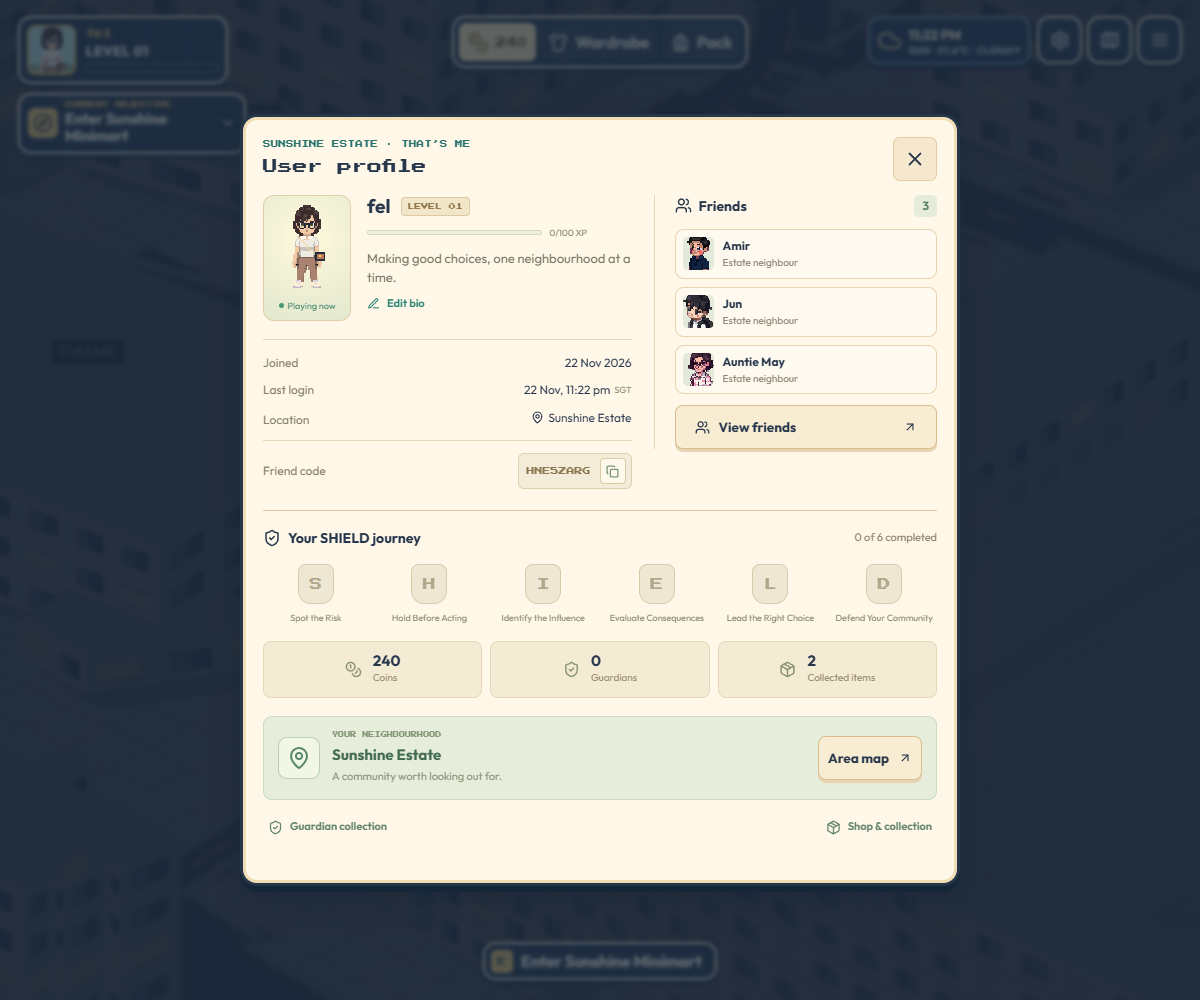
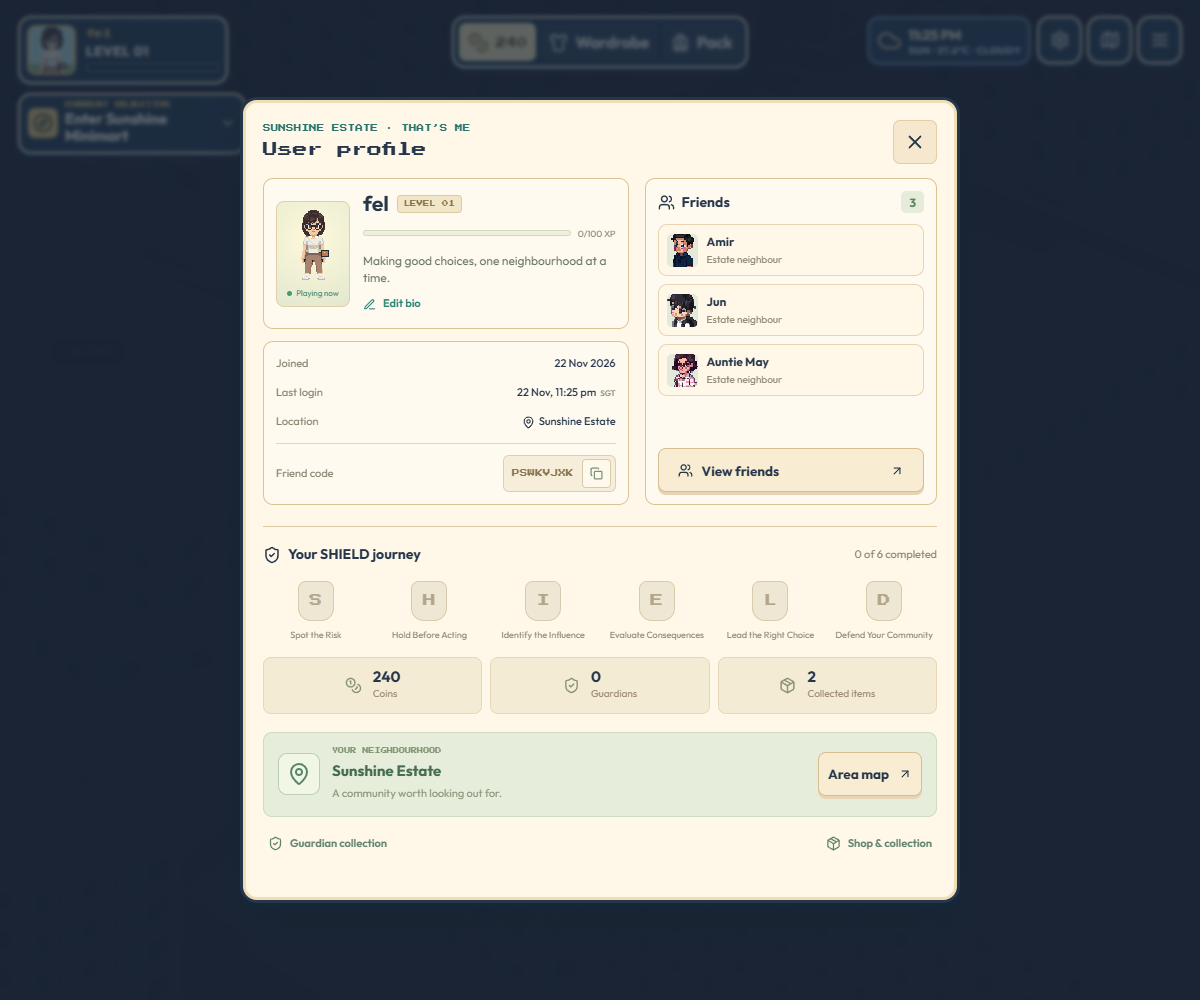
Refine profile identity layout and account detail alignment

diff --git a/src/styles/modals.css b/src/styles/modals.css
@@ -118,3 +118,49 @@
   .modal.standard-modal.panel-map .map-legend { font-size: .7rem; }
   .modal.standard-modal.shop-modal .shop-tabs button { font-size: 11px; }
 }
+/* Profile identity: two balanced columns, with account facts grouped beneath the avatar. */
+.modal.standard-modal.profile-modal .profile-top { grid-template-columns: minmax(0,1.25fr) minmax(0,1fr); align-items: stretch; gap: 16px; }
+.modal.standard-modal.profile-modal .profile-identity { display: flex; flex-direction: column; gap: 12px; }
+.modal.standard-modal.profile-modal .profile-person { align-items: center; gap: 13px; min-height: 145px; padding: 12px; border: 1px solid var(--modal-card-line); border-radius: 10px; background: var(--modal-card); }
+.modal.standard-modal.profile-modal .profile-avatar { flex: 0 0 74px; padding: 7px 3px; border-radius: 8px; }
+.modal.standard-modal.profile-modal .profile-avatar .avatar-sprite { width: 61px; height: 76px; }
+.modal.standard-modal.profile-modal .profile-avatar > span { margin-top: 3px; font-size: 8px; }
+.modal.standard-modal.profile-modal .profile-person-copy { min-width: 0; flex: 1; }
+.modal.standard-modal.profile-modal .profile-name-row { align-items: center; gap: 6px 8px; margin-bottom: 10px; }
+.modal.standard-modal.profile-modal .profile-name-row h3 { font-size: 21px; line-height: 1.2; }
+.modal.standard-modal.profile-modal .profile-level { padding: 5px 6px; font-size: .4rem; }
+.modal.standard-modal.profile-modal .profile-name-xp { max-width: none; gap: 7px; }
+.modal.standard-modal.profile-modal .profile-name-xp .profile-xp-track { height: 6px; min-width: 38px; }
+.modal.standard-modal.profile-modal .profile-name-xp > span { font-size: 9px; }
+.modal.standard-modal.profile-modal .profile-bio { margin: 12px 0 6px; color: #677568; font-size: 12px; line-height: 1.45; }
+.modal.standard-modal.profile-modal .profile-edit.text-button { min-height: 24px; padding: 2px 0; font-size: 11px; }
+.modal.standard-modal.profile-modal .profile-details-card { padding: 12px; border: 1px solid var(--modal-card-line); border-radius: 10px; background: var(--modal-card); }
+.modal.standard-modal.profile-modal .profile-facts { gap: 9px; margin: 0; padding: 0; border: 0; }
+.modal.standard-modal.profile-modal .profile-facts > div { min-height: 20px; align-items: center; gap: 10px; }
+.modal.standard-modal.profile-modal .profile-facts dt { font-size: 11px; }
+.modal.standard-modal.profile-modal .profile-facts dd { flex-wrap: wrap; justify-content: flex-end; font-size: 11px; font-weight: 500; }
+.modal.standard-modal.profile-modal .profile-facts dd small { font-size: 8px; }
+.modal.standard-modal.profile-modal .profile-location-code { gap: 10px; margin-top: 11px; padding-top: 11px; }
+.modal.standard-modal.profile-modal .profile-location-code > span { flex-shrink: 0; font-size: 11px; }
+.modal.standard-modal.profile-modal .profile-location-code > div { gap: 8px; padding: 3px 4px 3px 8px; background: #f6eedb; }
+.modal.standard-modal.profile-modal .profile-location-code code { font-size: .48rem; }
+.modal.standard-modal.profile-modal .profile-location-code button { width: 29px; height: 29px; }
+.modal.standard-modal.profile-modal .profile-social { display: flex; flex-direction: column; padding: 12px; border: 1px solid var(--modal-card-line); border-radius: 10px; background: var(--modal-card); }
+.modal.standard-modal.profile-modal .profile-social h3 { margin: 0 0 11px; min-height: 22px; }
+.modal.standard-modal.profile-modal .profile-friend-preview { gap: 8px; }
+.modal.standard-modal.profile-modal .profile-friend-preview > div { min-height: 51px; padding: 8px; background: var(--cream); }
+.modal.standard-modal.profile-modal .profile-friend-preview strong { font-size: 12px; }
+.modal.standard-modal.profile-modal .profile-friend-preview small { font-size: 10px; }
+.modal.standard-modal.profile-modal .profile-social > .button { margin: auto 0 0; padding-top: 10px; transform: none; }
+.modal.standard-modal.profile-modal .profile-friend-preview { margin-bottom: 12px; }
+.modal.standard-modal.profile-modal .profile-bio-editor { margin-top: 0; }
+@media(max-width:560px) {
+  .modal.standard-modal.profile-modal .profile-top { grid-template-columns: 1fr; gap: 12px; }
+  .modal.standard-modal.profile-modal .profile-person { padding: 11px; gap: 12px; }
+  .modal.standard-modal.profile-modal .profile-social { padding: 12px; }
+  .modal.standard-modal.profile-modal .profile-friend-preview { grid-template-columns: repeat(3,minmax(0,1fr)); gap: 6px; }
+  .modal.standard-modal.profile-modal .profile-friend-preview > div { padding: 8px 3px; }
+  .modal.standard-modal.profile-modal .profile-friend-preview strong { font-size: 11px; }
+  .modal.standard-modal.profile-modal .profile-friend-preview small { font-size: 8px; }
+  .modal.standard-modal.profile-modal .profile-social > .button { margin-top: 0; }
+}

diff --git a/src/components/ProfileModal.tsx b/src/components/ProfileModal.tsx
@@ -22,8 +22,8 @@ export function ProfileModal({save,onClose,onUpdate,onOpen}:{save:Save;onClose:(
       <section className="profile-identity" aria-label="Your details"><div className="profile-person"><div className="profile-avatar"><AvatarSprite avatar={save.avatar}/><span><i/>Playing now</span></div><div className="profile-person-copy"><div className="profile-name-row"><h3>{save.name}</h3><span className="profile-level">LEVEL 01</span></div>
         <div className="profile-name-xp"><div className="profile-xp-track" role="progressbar" aria-label="Profile experience" aria-valuenow={xp} aria-valuemin={0} aria-valuemax={100}><i style={{width:`${xp}%`}}/></div><span>{xp}/100 XP</span></div><p className="profile-bio">{profile.bio||'No bio yet.'}</p><button className="text-button profile-edit" onClick={()=>{setBio(profile.bio);setEditing(!editing)}}><Edit3 size={13}/>{editing?'Cancel edit':'Edit bio'}</button></div></div>
       {editing&&<form className="profile-bio-editor" onSubmit={e=>{e.preventDefault();onUpdate({profile:{...profile,bio:bio.trim()}});setEditing(false);setFeedback('Profile updated.')}}><label htmlFor="profile-bio">Your bio</label><textarea id="profile-bio" maxLength={PROFILE_BIO_LIMIT} value={bio} onChange={e=>setBio(e.target.value)} rows={3}/><div><small>{bio.length}/{PROFILE_BIO_LIMIT}</small><Button className="primary" type="submit">Save bio</Button></div></form>}
-      <dl className="profile-facts"><div><dt>Joined</dt><dd>{dateLabel(profile.createdAt)}</dd></div><div><dt>Last login</dt><dd>{loginLabel(profile.lastLoginAt)} {profile.lastLoginAt&&<small>SGT</small>}</dd></div><div><dt>Location</dt><dd><MapPin size={13}/>Sunshine Estate</dd></div></dl>
-      <div className="profile-inline-code profile-location-code"><span>Friend code</span><div><code>{code}</code><button type="button" onClick={copyCode} aria-label="Copy friend code"><Copy size={13}/></button></div></div>
+      <div className="profile-details-card"><dl className="profile-facts">{profile.createdAt&&<div><dt>Joined</dt><dd>{dateLabel(profile.createdAt)}</dd></div>}<div><dt>Last login</dt><dd>{loginLabel(profile.lastLoginAt)} {profile.lastLoginAt&&<small>SGT</small>}</dd></div><div><dt>Location</dt><dd><MapPin size={13}/>Sunshine Estate</dd></div></dl>
+      <div className="profile-inline-code profile-location-code"><span>Friend code</span><div><code>{code}</code><button type="button" onClick={copyCode} aria-label="Copy friend code"><Copy size={13}/></button></div></div></div>
 
       </section>
       <aside className="profile-social"><h3><Users size={17}/>Friends <span>{friends.length}</span></h3><div className="profile-friend-preview">{friends.slice(0,3).map(friend=><div key={friend.id}><span className="profile-friend-avatar"><FriendPortrait friend={friend}/></span><div><strong>{friend.name}</strong><small>{friend.id.startsWith('friend-')?'Estate neighbour':'Added friend'}</small></div></div>)}{!friends.length&&<p>No friends added yet.</p>}</div><Button className="secondary" onClick={()=>onOpen('friends')}><Users size={15}/> View friends <ArrowUpRight size={14}/></Button></aside>
